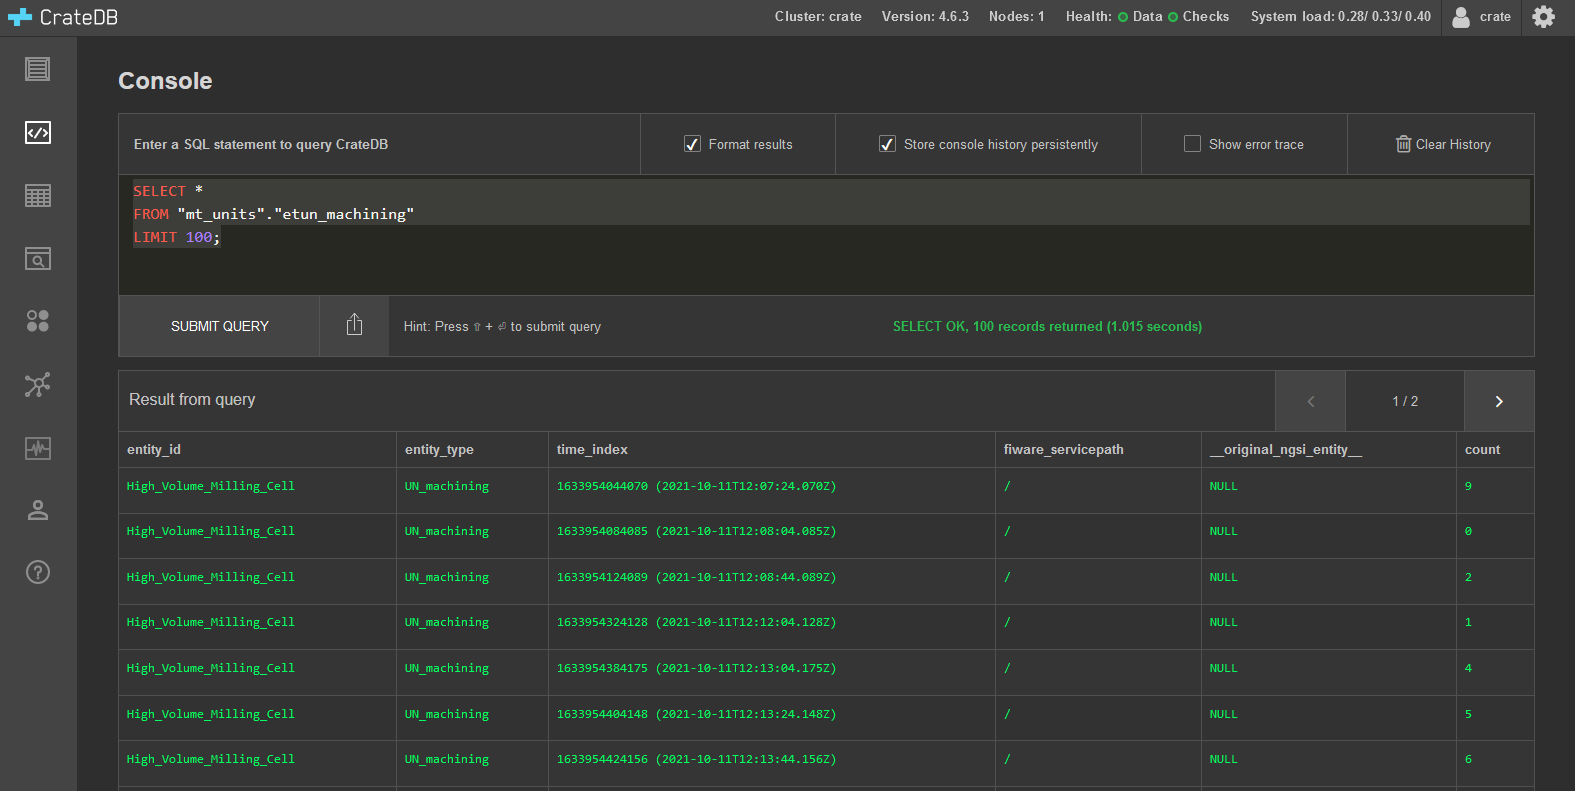
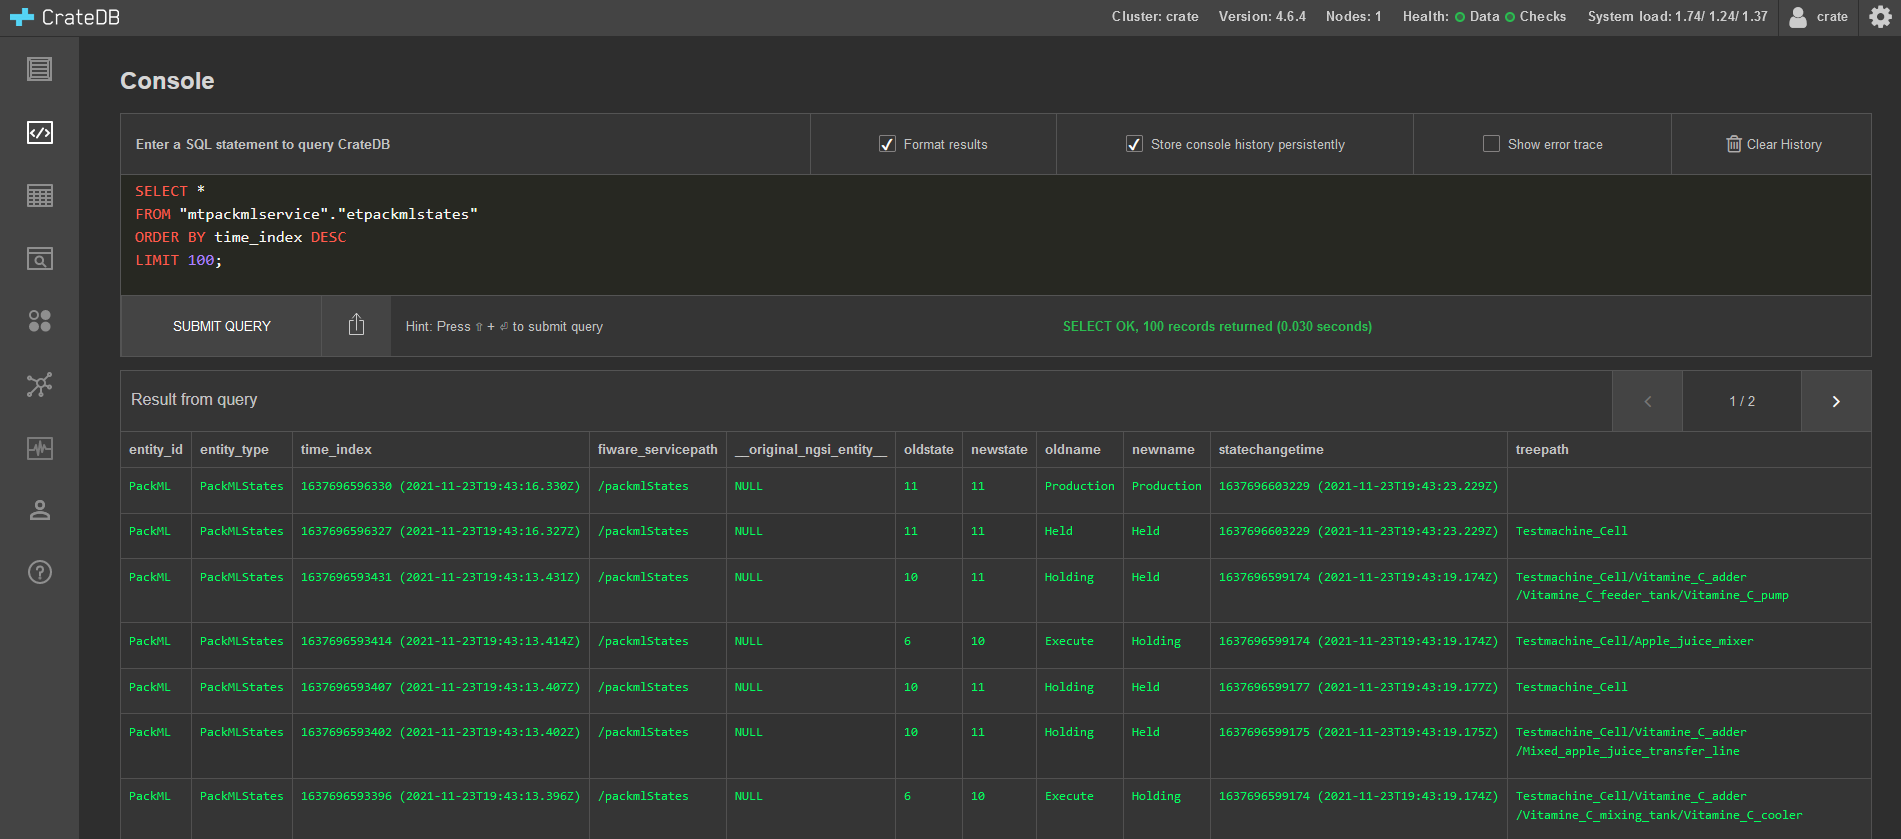
Updated some images

diff --git a/docs/usermanual.md b/docs/usermanual.md
@@ -47,7 +47,7 @@ When the connection is made, this application shows and monitors the sent messag
 |----------------------------------------------------------------------------------------|
 |use [reqbin.com/curl](https://reqbin.com/curl) for in browser curl commands and feedback or an application like Postman|
 
-To check the devices that are registerd in the IoT agent you need to know the registered service. In our example project, the fiware-service is ```_units```
+To check the devices that are registerd in the IoT agent you need to know the registered service. In our example project, the fiware-service is ```packmlService``` and the servicepath is ```/packmlStates```.
 
 ![check registered devices](images/reqbin_com_curl.png)
 
@@ -55,9 +55,9 @@ example code:
 
 ```curl
 curl -X GET \
-'http://10.11.118.60:4041/iot/devices' \
--H 'fiware-service: _units' \
--H 'fiware-servicepath: /'
+'http://192.168.178.101:4041/iot/devices' \
+-H 'fiware-service: packmlService' \
+-H 'fiware-servicepath: /packmlStates'
 ```
 
 Please refer to the [Fiware IoT Agent documentation](https://github.com/FIWARE/tutorials.IoT-Agent) for other commands
@@ -76,7 +76,8 @@ Example query
 
 ```sql
 SELECT *
-FROM "mt_units"."etun_machining"
+FROM "mtpackmlservice"."etpackmlstates"
+Order by time_index DESC
 LIMIT 100;
 ```
 

diff --git a/docs/docker-README.md b/docs/docker-README.md
@@ -1,6 +1,4 @@
-# DIH² Phase 3
-
-## Contents
+# Contents
 
 - [Preparations](#Preparations)
   - [Environment variables](#environment-variables)
@@ -37,7 +35,7 @@ TUTORIAL_APP_PORT=3000
 TUTORIAL_DUMMY_DEVICE_PORT=3001
 ```
 
-An example of the .ENV file can be found at [docker/.env](docker/.env).
+An example of the .ENV file can be found at [docker/.env](https://github.com/demkoen/DIH2-Phase3/tree/main/docs/docker/.env).
 
 [Top](#top)
 
@@ -45,7 +43,7 @@ An example of the .ENV file can be found at [docker/.env](docker/.env).
 
 Compose is a tool for defining and running multi-container Docker applications. With Compose, you use a YAML file to configure your application’s services. Then, with a single command, you create and start all the services from your configuration. To learn more about all the features of Compose, [see the list of features](https://docs.docker.com/compose/#features).
 
-An example of the docker compose file can be found at [docker/docker-compose.yml](docker/docker-compose.yml).
+An example of the docker compose file can be found at [docker/docker-compose.yml](https://github.com/demkoen/DIH2-Phase3/tree/main/docs/docker/docker-compose.yml).
 
 ```Dockerfile
 version: "3.5"

diff --git a/docs/README.md b/docs/README.md
@@ -1,4 +1,4 @@
-# DIH² Phase 3
+# MQTT based PackML IoT Agent
 
 [![License: MIT](https://img.shields.io/badge/License-MIT-yellow.svg)](https://opensource.org/licenses/MIT)
 [![Documentation Status](https://readthedocs.org/projects/dih2-phase3/badge/?version=latest)](https://dih2-phase3.readthedocs.io/en/latest/?badge=latest)
